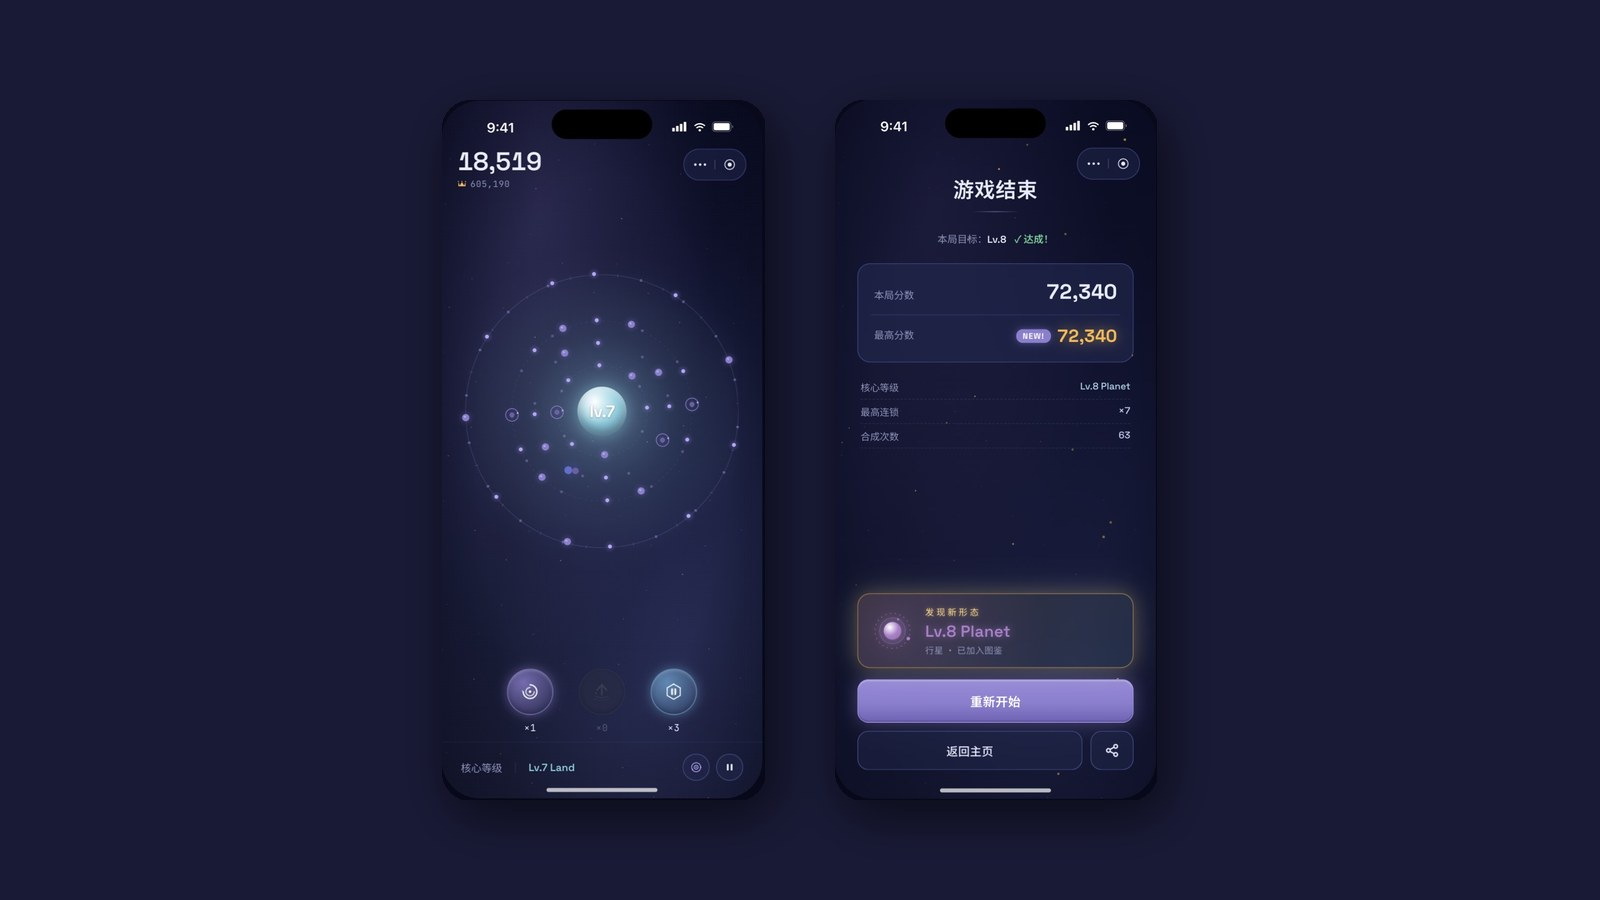
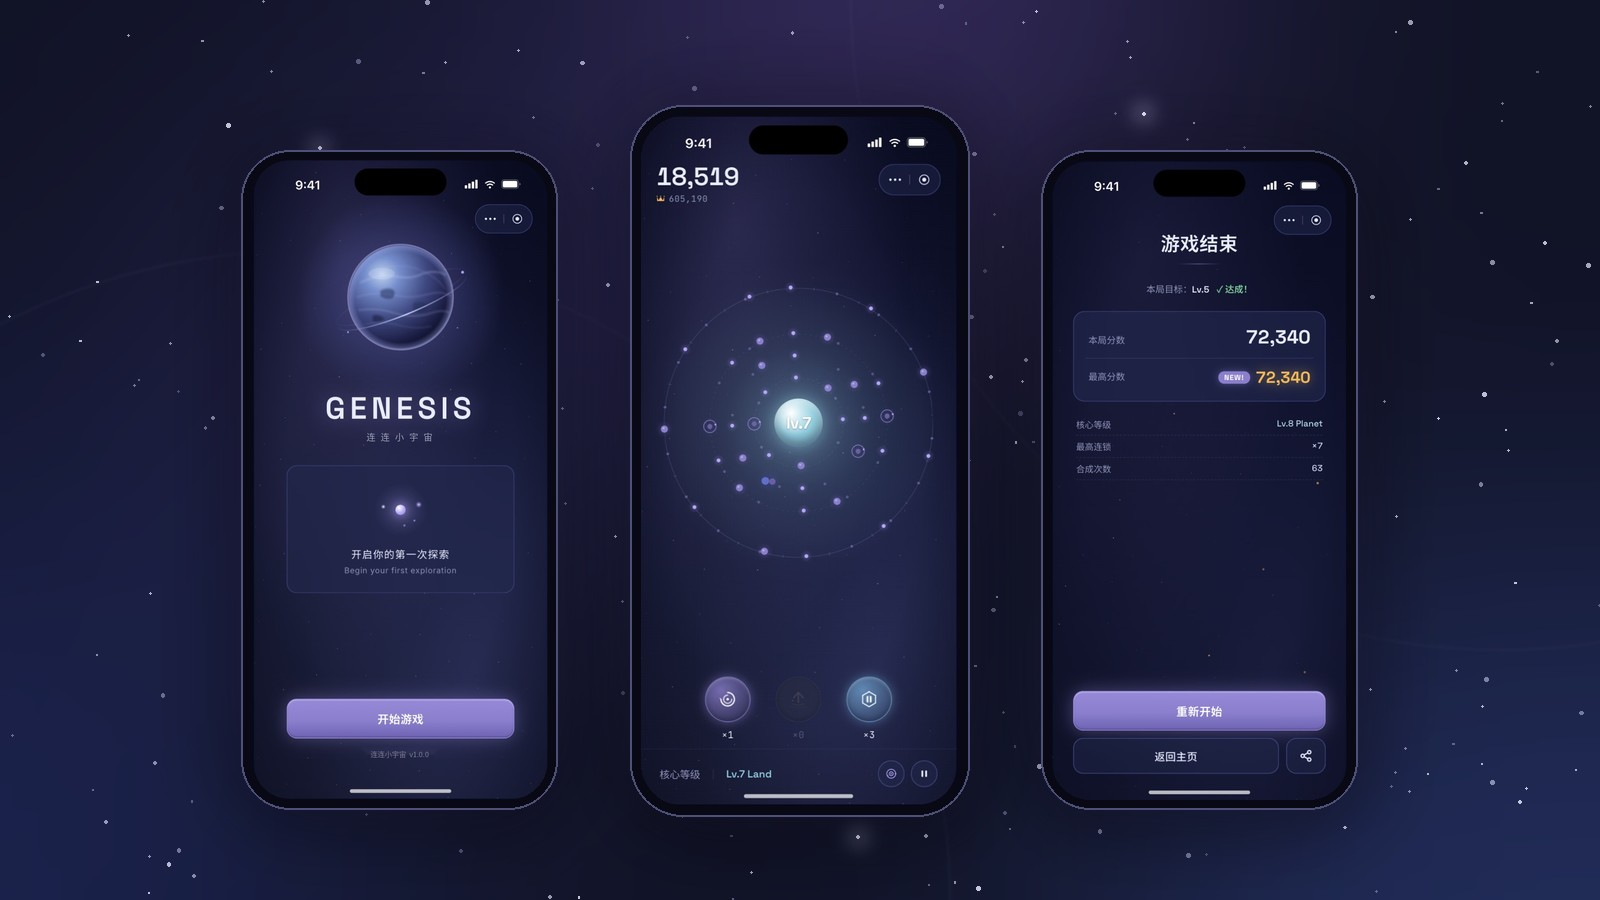
案例页淡出底图头部 + 签署应用封面/流程图/MVP文案

Changed region(s): [[0.125, 0.0933, 1.0, 1.0], [0.4688, 0.0, 0.6562, 0.0622], [0.7188, 0.2489, 0.7812, 0.28]]

diff --git a/portfolio-site/src/content.js b/portfolio-site/src/content.js
@@ -98,6 +98,7 @@ export const content = {
           cardTitle: "用 AI 从零独立打造的微信休闲小游戏",
           description: "连连看 × 消消乐的零门槛玩法，装进一场宇宙演化——从夸克到奇点，一个人走完全程。",
           image: "/work-lianlian.jpg",
+          heroBackdrop: { opacity: 0.5, brightness: 2.7, saturate: 1.8 },
           facts: ["个人项目 · 从 0 到 1 独立完成", "微信小游戏 · 原生 Canvas · 包体 3 MB", "已完成开发与合规流程 · 上架审核中"],
           sections: [
             { heading: "起点", body: "起点其实很简单：我想亲手做一个自己的小游戏。在腾讯的三年半里，我一直在把别人的游戏做好——这一次，我想**把自己喜欢的东西做出来**，从第一个想法到上架，每一步都自己来。" },
@@ -115,11 +116,14 @@ export const content = {
           source: "个人项目 · Web 应用",
           cardTitle: "为金融客户打造的全流程电子签署系统",
           description: "一条专属链接，让客户在手机上完成合同签署，结果自动归档。",
+          image: "/work-signing.jpg",
+          heroBackdrop: { opacity: 0.6, brightness: 3.8, saturate: 1.7 },
           facts: ["个人项目 · 产品定义、交互设计与全栈实现", "Next.js + Airtable + Vercel · 移动端优先", "已部署"],
           sections: [
             { heading: "背景", body: "一位做金融的朋友找到我：客户每次签合同都要走线下——打印、签字、拍照回传，流程繁琐，文件散落在聊天记录里，事后核对全靠人工。我决定帮他把整个签署流程搬到线上，也把它当作**一次完整的产品实践**：从理解业务、定义流程，到设计、开发、部署，全部独立完成。" },
             { heading: "三个约束", body: "动手之前，有三个前提决定了所有设计方向：客户大多不熟悉数字工具，操作必须零学习成本；签署发生在手机上，一条链接就要走完全程，不能要求下载任何东西；这是有法律意义的金融文件，每一步都必须**严谨、可追溯**。" },
-            { heading: "两条链接，各走各的最短路径", body: "业务里有两种签署场景：新客户开户，和老客户补签协议。我没有做一个\"通用流程\"，而是拆成两条独立链接——开户链接从风险确认开始（风险提示 → 阅读合同 → 手写签名），补签链接直接进入合同（阅读 → 签名）。老客户不需要被再教育一遍风险，**少一步，就少一次流失**。\n\n几个具体的设计决策：风险确认页把提示逐条列出，勾选确认后才能继续——合规的动作，但不做成吓人的法律墙；合同直接在页面内阅读，不跳转、不下载；签名板可以清除重签，因为第一次手写签名很少有人满意；每一步顶部有进度指示，随时能返回上一步。在\"严谨\"和\"顺畅\"之间，每一步都在找平衡。" },
+            { heading: "为什么做得这么小", body: "我没有做 App，也没有做后台管理系统——最终的形态小到极致：一条链接、一个页面、一次签名。这不是省事，而是对约束的回应：客户不熟悉数字工具，任何\"下载、注册、学习\"都会成为流失点。**判断什么不该做，往往比做什么更重要**。\n\n从需求到第一版可用，只用了几天；之后的迭代都建立在真实使用的反馈上。这是我对\"最小可行产品\"的一次完整实践：**先让业务跑起来，再让它变得更好**。" },
+            { heading: "两条链接，各走各的最短路径", body: "业务里有两种签署场景：新客户开户，和老客户补签协议。我没有做一个\"通用流程\"，而是拆成两条独立链接——开户链接从风险确认开始（风险提示 → 阅读合同 → 手写签名），补签链接直接进入合同（阅读 → 签名）。老客户不需要被再教育一遍风险，**少一步，就少一次流失**。\n\n几个具体的设计决策：风险确认页把提示逐条列出，勾选确认后才能继续——合规的动作，但不做成吓人的法律墙；合同直接在页面内阅读，不跳转、不下载；签名板可以清除重签，因为第一次手写签名很少有人满意；每一步顶部有进度指示，随时能返回上一步。在\"严谨\"和\"顺畅\"之间，每一步都在找平衡。", images: [{ src: "/signing-flow.png", label: "Flow · 两条签署路径", alt: "两条签署链接的流程对比：开户四步走完，补签跳过风险确认", wide: true }], imageLayout: "sketch" },
             { heading: "看不见的严谨", body: "这类工具真正的考验在异常情况：链接被重复打开怎么办？签到一半断网怎么办？两个人同时提交怎么办？我处理了链接失效、防重复提交、并发写入这些边界情况，并让系统在客户签署完成后自动合成 PDF、归档回数据库——设计一个金融工具，**\"不出错\"本身就是体验的一部分**。" },
             { heading: "结果", body: "从朋友的一句需求，到一个可以直接投入使用的完整系统——这个项目让我第一次完整经历了**\"为真实业务做产品\"**：需求是活的、约束是真的、错误是有代价的。" }
           ],
@@ -350,6 +354,7 @@ export const content = {
           cardTitle: "A casual WeChat mini game built from scratch, independently, with AI",
           description: "Link-and-match gameplay with zero learning curve, wrapped in a cosmic evolution — from quark to singularity, built solo.",
           image: "/work-lianlian.jpg",
+          heroBackdrop: { opacity: 0.5, brightness: 2.7, saturate: 1.8 },
           facts: ["Personal project · Built solo, 0 → 1", "WeChat mini game · Native Canvas · 3 MB bundle", "Development and compliance complete · In store review"],
           sections: [
             { heading: "Where it started", body: "The starting point was simple: I wanted to make a game of my own, with my own hands. For three and a half years at Tencent I had been making other people's games better — this time, I wanted to **build something I love**, and take every step myself, from the first idea to the store." },
@@ -367,11 +372,14 @@ export const content = {
           source: "Personal · Web App",
           cardTitle: "An end-to-end e-signing system for financial clients",
           description: "One private link lets a client sign a contract on their phone — auto-archived.",
+          image: "/work-signing.jpg",
+          heroBackdrop: { opacity: 0.6, brightness: 3.8, saturate: 1.7 },
           facts: ["Personal project · Product definition, interaction design, full-stack build", "Next.js + Airtable + Vercel · Mobile-first", "Deployed"],
           sections: [
             { heading: "Background", body: "A friend who works in finance came to me: every contract with a client went through an offline loop — print, sign, photograph, send back. The process was tedious, documents were scattered across chat threads, and reconciliation was entirely manual. I decided to move the whole signing flow online, and to treat it as **a complete product exercise**: understanding the business, defining the flow, then designing, building, and deploying it — all on my own." },
             { heading: "Three constraints", body: "Before starting, three premises set the direction for every design decision: most clients aren't fluent with digital tools, so the flow had to require zero learning; signing happens on a phone, so one link had to carry the entire journey with nothing to download; and these are legally meaningful financial documents, so every step had to be **rigorous and traceable**." },
-            { heading: "Two links, each taking its shortest path", body: "The business really has two signing scenarios: onboarding a new client, and re-signing with an existing one. Instead of one \"universal flow,\" I split them into two independent links — the onboarding link starts with risk confirmation (risk notice → read contract → handwritten signature), while the re-signing link goes straight to the contract (read → sign). A returning client doesn't need the risk lecture again; **one step fewer is one drop-off fewer.**\n\nA few concrete decisions: the risk page lists each notice explicitly and requires a checked confirmation to continue — a compliance act, but not a wall of legal intimidation; the contract is read inline, no redirects, no downloads; the signature pad allows clearing and re-signing, because first handwritten signatures rarely satisfy anyone; and a step indicator sits at the top with the option to go back at any point. Between rigor and smoothness, every step is a balance." },
+            { heading: "Why so small", body: "I didn't build an app, and I didn't build an admin backend — the final form is as small as it gets: one link, one page, one signature. That wasn't laziness; it was a response to the constraints: for clients unfamiliar with digital tools, every \"download, register, learn\" is a drop-off point. **Knowing what not to build often matters more than building.**\n\nFrom request to first usable version took days, not months; every iteration since has been driven by real usage. It was my first complete practice of the minimum viable product: **get the business running first, then make it better**." },
+            { heading: "Two links, each taking its shortest path", body: "The business really has two signing scenarios: onboarding a new client, and re-signing with an existing one. Instead of one \"universal flow,\" I split them into two independent links — the onboarding link starts with risk confirmation (risk notice → read contract → handwritten signature), while the re-signing link goes straight to the contract (read → sign). A returning client doesn't need the risk lecture again; **one step fewer is one drop-off fewer.**\n\nA few concrete decisions: the risk page lists each notice explicitly and requires a checked confirmation to continue — a compliance act, but not a wall of legal intimidation; the contract is read inline, no redirects, no downloads; the signature pad allows clearing and re-signing, because first handwritten signatures rarely satisfy anyone; and a step indicator sits at the top with the option to go back at any point. Between rigor and smoothness, every step is a balance.", images: [{ src: "/signing-flow.png", label: "Flow · Two signing paths", alt: "Flow comparison of the two signing links: onboarding takes four steps; re-signing skips risk confirmation", wide: true }], imageLayout: "sketch" },
             { heading: "The rigor you don't see", body: "The real test of a tool like this is the abnormal path: what if a link is opened twice? What if the connection drops mid-signing? What if two submissions land at once? I handled expired links, duplicate-submission protection, and concurrent writes, and had the system auto-compose the signed PDF and archive it back to the database. In a financial tool, **\"nothing goes wrong\" is itself part of the experience**." },
             { heading: "Outcome", body: "From a friend's one-sentence request to a complete system ready for real use — this project was my first full pass through **building for a real business**: the requirements were alive, the constraints were real, and mistakes had a cost." }
           ],

diff --git a/portfolio-site/src/pages/ProjectDetail.jsx b/portfolio-site/src/pages/ProjectDetail.jsx
@@ -86,7 +86,7 @@ function SketchImages({ images }) {
   return (
     <div className="mt-10 space-y-12">
       {images.map((img, j) => (
-        <figure key={j} className="mx-auto w-full max-w-[34rem]">
+        <figure key={j} className={`mx-auto w-full ${img.wide ? '' : 'max-w-[34rem]'}`}>
           <figcaption className="text-[0.6875rem] uppercase tracking-[0.18em] text-dark-text-secondary/70 mb-3">
             {img.label}
           </figcaption>
@@ -220,14 +220,37 @@ export default function ProjectDetail({ content, lang, slug }) {
     <div className="min-h-screen bg-dark-bg">
       <Navbar content={content} lang={lang} />
 
-      {/* Header:返回 + 标签 + 标题 */}
+      {/* Header:低调淡出底图——封面以低透明度+模糊铺在标题背后,向下渐隐 */}
       <motion.section
         initial={{ opacity: 0, y: 20 }}
         animate={{ opacity: 1, y: 0 }}
         transition={{ duration: 0.6, ease: 'easeOut' }}
-        className="px-6 sm:px-8 pt-page-top bg-dark-bg"
+        className="relative px-6 sm:px-8 pt-page-top bg-dark-bg overflow-hidden"
       >
-        <div className="max-w-[64rem] mx-auto">
+        {project.image && (() => {
+          // 每个案例可单独调底图强度:暗色封面需要更高透明度与提亮才能显形
+          const hb = project.heroBackdrop || {};
+          return (
+            <img
+              src={project.image}
+              alt=""
+              aria-hidden="true"
+              className="absolute pointer-events-none select-none"
+              style={{
+                left: '-3%',
+                top: '-12%',
+                width: '106%',
+                height: '124%',
+                objectFit: 'cover',
+                opacity: hb.opacity ?? 0.18,
+                filter: `blur(14px) brightness(${hb.brightness ?? 1}) saturate(${hb.saturate ?? 1})`,
+                WebkitMaskImage: 'linear-gradient(to bottom, #000 0%, transparent 92%)',
+                maskImage: 'linear-gradient(to bottom, #000 0%, transparent 92%)'
+              }}
+            />
+          );
+        })()}
+        <div className="relative max-w-[64rem] mx-auto">
           <a
             href={backHref}
             className="inline-block text-[0.9375rem] text-dark-text-secondary hover:text-dark-text transition-colors mb-10"
